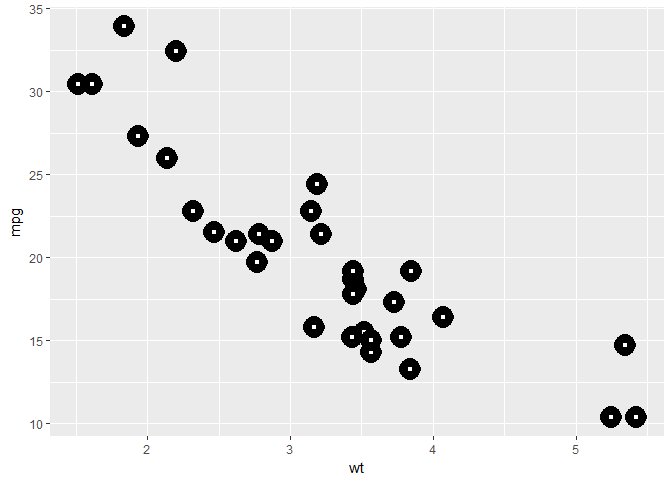
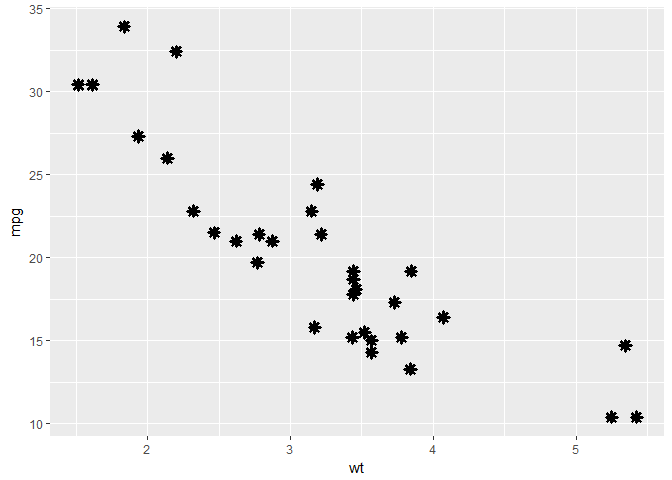
new picture

diff --git a/R-club-Apr-26/04_25_2017.html b/R-club-Apr-26/04_25_2017.html
@@ -222,8 +222,8 @@ ggplot(data = mpg) +
 <li>What does the <code>stroke</code> aesthetic do? What shapes does it work with? (Hint: use <code>?geom_point</code>)</li>
 </ol>
 <pre class="r"><code>ggplot(mtcars, aes(wt, mpg)) +
-  geom_point(shape = 21, colour = &quot;black&quot;, fill = &quot;white&quot;, stroke = 5)</code></pre>
[1 lines of base64/hex data omitted]
+  geom_point(shape = 8, stroke = 2)</code></pre>
[1 lines of base64/hex data omitted]
 <p>Stroke changes the size of the border for the points on the plot</p>
 <ol start="6" style="list-style-type: decimal">
 <li>What happens if you map an aesthetic to something other than a variable name, like <code>aes(colour = displ &lt; 5)</code>?</li>

diff --git a/R-club-Apr-26/04_25_2017.md b/R-club-Apr-26/04_25_2017.md
@@ -164,7 +164,7 @@ It will apply each aesthetic appropriately according to the values in the variab
 
 ```r
 ggplot(mtcars, aes(wt, mpg)) +
-  geom_point(shape = 21, colour = "black", fill = "white", stroke = 5)
+  geom_point(shape = 8, stroke = 2)
 ```
 
 ![](04_25_2017_files/figure-html/3.3.1.5-1.png)<!-- -->
